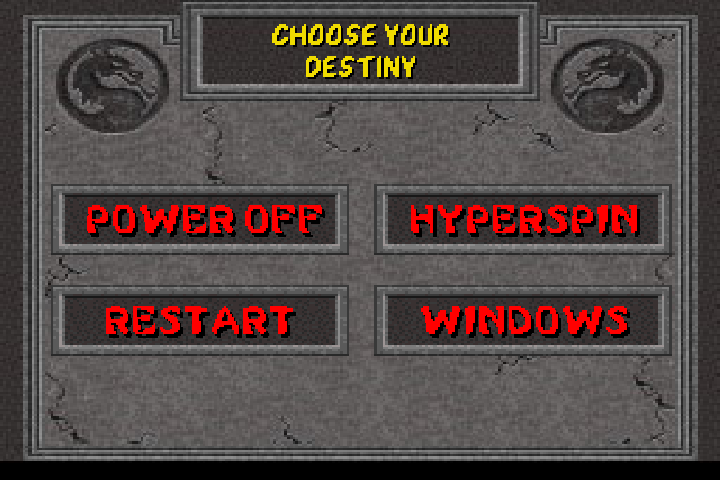
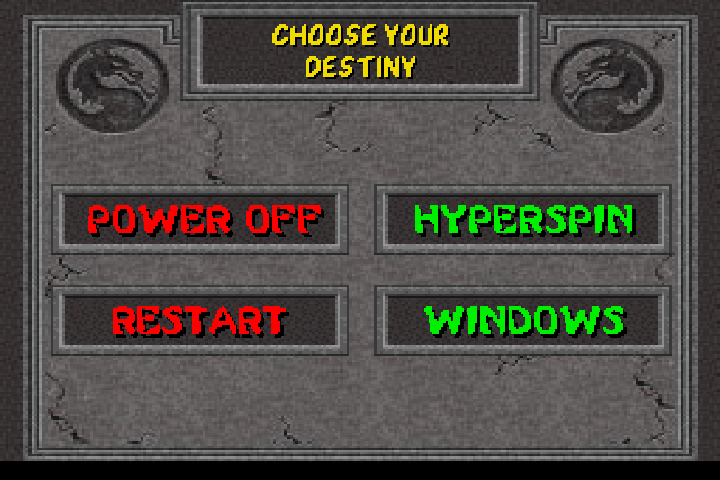
adicionada novas opções do menu de cancelar

diff --git a/build/menu.js b/build/menu.js
@@ -4,6 +4,7 @@ $(document).ready(function ($) {
   var selecionado = false;
   var shutdown = false;
   var stopCounter = false;
+  var cancelType = 1;
   var operacao = 0;
   var keys = {
     downP2: false,
@@ -276,11 +277,15 @@ $(document).ready(function ($) {
 
   function countDown() {
     var timeleft = 5;
+    $("#countdownCenter").text("5");
+    $("#countdownCenter").attr('data-text', $("#countdownCenter").text());
     var downloadTimer = setInterval(function(){
       if (stopCounter == true) {
         document.getElementById("progressBar").value = 5;
         document.getElementById("countdowntimer").textContent = 5;
+        document.getElementById("countdownCenter").textContent = 5;
         $("#countdowntimer").attr('data-text', 5);
+        $("#countdownCenter").attr('data-text', 5);
         clearInterval(downloadTimer);
         return;
       }
@@ -288,8 +293,13 @@ $(document).ready(function ($) {
  //   document.getElementById("progressBar").value = 5 - --timeleft;  //barra progressiva
     document.getElementById("progressBar").value  = --timeleft;
     document.getElementById("countdowntimer").textContent = timeleft;
+    document.getElementById("countdownCenter").textContent = timeleft;
     $("#countdowntimer").attr('data-text', timeleft);
+    $("#countdownCenter").attr('data-text', timeleft);
     if(timeleft <= 0) {
+      $("#pbText").text(operacao == 1 ? "SHUTTING DOWN..." : "RESTARTING OS...");
+      $("#pbText").attr('data-text', $("#pbText").text()); 
+      $("#countdowntimer").hide();    
       clearInterval(downloadTimer);
       const {
         exec
@@ -311,19 +321,30 @@ $(document).ready(function ($) {
       document.addEventListener('keydown', keyDown, false);
       if (menu == "default" ) {
         $(".bordaPiscante").css({ "display" : "none"});
-        $("#cancel").transition({ 'visibility': 'visible', easing: 'ease', duration: 500 });
+        
         
 
       }
       countDown();
-      $("#pbText").removeClass("pbTextDefault");
-      $("#pbText").addClass("pbText");
-      $("#pbText").text(operacao == 1 ? "SHUTDOWN IN " : "RESTART IN ");
-      $("#pbText").attr('data-text', $("#pbText").text());
+      if(cancelType == 2) {
+        $("#pbText").removeClass("pbTextDefault");
+        $("#pbText").addClass("pbText");
+        $("#pbText").text(operacao == 1 ? "SHUTDOWN IN " : "RESTART IN ");
+        $("#pbText").attr('data-text', $("#pbText").text());
+        $("#countdowntimer").show();
+        $("#countdown").show();
+        $("#progressContent").show();
+        $("#countdownCenter").hide();
+
+      } else {
+        $("#cancel").addClass(operacao == 1 ? "cancelPowerOff" : "cancelRestart" );
+        $("#countdownCenter").show();
+        animateCountDown();
+      }
+
+      $("#cancel").transition({ 'visibility': 'visible', easing: 'ease', duration: 500 });
       $('.bottomText').transition({ 'visibility': 'visible', easing: 'snap', duration: 1 });
-      $("#countdowntimer").show();
-      $("#countdown").show();
-      $("#progressContent").show();
+
 
   
   }
@@ -471,6 +492,104 @@ $(document).ready(function ($) {
 
 }
 
+function animateDivers() {
+  if (!selecionado) {
+    $('#element' + posicao).transition({
+      'border-color': '#007B00'  /* '#006700' */
+    }, 80).transition({
+      'border-color': '#24C72A'  /* '#00FF00' */
+    }, 80, animateDivers);
+  }
+
+}
+
+function animateCountDown() {
+    $('#countdownCenter').transition({
+      'color': '#FFFFFF', easing: 'snap', duration: 90  
+    }).transition({
+      'color': '#FF0000', easing: 'snap', duration: 90
+    }, animateCountDown);
+
+}
+
+function animateShaoKahn() {
+  
+  const death = new Howl({
+    src: ['./build/wav/death.wav']
+  });
+
+  const laugh1 = new Howl({
+    src: ['./build/wav/0laugh1.wav'],
+  });
+
+  const closefast = new Howl({
+    src: ['./build/wav/closefast.mp3'],
+  });
+
+  const iwin = new Howl({
+    src: ['./build/wav/1Iwin.wav'],
+    onend: function() {
+      laugh1.play();
+    }
+  });
+
+  const open = new Howl({
+    src: ['./build/wav/open.mp3'],
+    onend: function() {
+      iwin.play();
+    }
+  });
+
+
+
+  open.play();
+  $("#portalLeft").css({ "right" : "0", "transform" : "" });
+  $("#portalRight").css({ "left" : "0", "transform" : "" });
+  $(".bordaPiscante").css({ "display" : "none"});
+  $("#countdown").hide();
+  $("#progressContent").hide();
+  $('.bottomText').transition({ 'visibility': 'hidden', easing: 'snap', duration: 1 })
+  $('.blocoDireito').transition({ 'background-color': 'transparent', easing: 'snap', duration: 1 }); 
+  $('#portalLeft').transition({x: '-131px', duration: 650, easing: 'linear'})
+  .transition({x: '0px', duration: 650, easing: 'linear', delay: 2500})
+  .transition({y: '-2px', duration: 50})
+  .transition({y: '4px', duration: 100})
+  .transition({y: '-4px', duration: 100})
+  .transition({y: '0px', duration: 50});
+  $('#portalRight').transition({x: '115px', duration: 650, easing: 'linear'})
+  .transition({x: '0px', duration: 650, easing: 'linear', delay: 2500})
+  .transition({y: '-2px', duration: 50})
+  .transition({y: '4px', duration: 100})
+  .transition({y: '-4px', duration: 100})
+  .transition({y: '0px', duration: 50});;
+
+  $("#pbText").text("HAVE A NICE DAY");
+  $("#pbText").attr('data-text', $("#pbText").text());
+  $('.bottomText').transition({ 'visibility': 'visible', delay: 3800, easing: 'snap', duration: 1 })
+  .transition({y: '-2px', duration: 50})
+  .transition({y: '4px', duration: 100})
+  .transition({y: '-4px', duration: 100})
+  .transition({y: '0px', duration: 50});
+  $('.blocoDireito').transition({ 'background-color': '#393839', delay: 3755, easing: 'snap', duration: 1 });
+  delay(function () {
+    closefast.play();
+    delay(function () {
+      death.play();
+      
+      delay(function () {
+        $(".bordaPiscante").css({ "display" : "inline"});
+        checkSelection(); 
+        if (operacao == 1 || operacao == 2)  {
+          document.addEventListener('keydown', keyDown, false);
+        } 
+        
+      }, 300);
+    }, 800);
+  }, 3000);
+
+  
+}
+
   function cancelShutDown(e){
    if (e.which != 38 && e.which != 40 && e.which != 37 && e.which != 39 &&
     e.which != 82 && e.which != 70 && e.which != 68 && e.which != 71) {
@@ -492,6 +611,7 @@ $(document).ready(function ($) {
       $("#element" + posicao).removeClass("selecionado");
       $("#element" + posicao).addClass("bordaPiscante");
       $("progressBar").val(0);
+
 
       cancel.play();
       shutdown = false;
@@ -712,95 +832,7 @@ $(document).ready(function ($) {
    document.addEventListener("keydown", keyDown);
 
 
-  function animateDivers() {
-    if (!selecionado) {
-      $('#element' + posicao).transition({
-        'border-color': '#007B00'  /* '#006700' */
-      }, 80).transition({
-        'border-color': '#24C72A'  /* '#00FF00' */
-      }, 80, animateDivers);
-    }
 
-  }
-
-  function animateShaoKahn() {
-    
-    const death = new Howl({
-      src: ['./build/wav/death.wav']
-    });
-
-    const laugh1 = new Howl({
-      src: ['./build/wav/0laugh1.wav'],
-    });
-
-    const closefast = new Howl({
-      src: ['./build/wav/closefast.mp3'],
-    });
-
-    const iwin = new Howl({
-      src: ['./build/wav/1Iwin.wav'],
-      onend: function() {
-        laugh1.play();
-      }
-    });
-
-    const open = new Howl({
-      src: ['./build/wav/open.mp3'],
-      onend: function() {
-        iwin.play();
-      }
-    });
-
-
-
-    open.play();
-    $("#portalLeft").css({ "right" : "0", "transform" : "" });
-    $("#portalRight").css({ "left" : "0", "transform" : "" });
-    $(".bordaPiscante").css({ "display" : "none"});
-    $("#countdown").hide();
-    $("#progressContent").hide();
-    $('.bottomText').transition({ 'visibility': 'hidden', easing: 'snap', duration: 1 })
-    $('.blocoDireito').transition({ 'background-color': 'transparent', easing: 'snap', duration: 1 }); 
-    $('#portalLeft').transition({x: '-131px', duration: 650, easing: 'linear'})
-    .transition({x: '0px', duration: 650, easing: 'linear', delay: 2500})
-    .transition({y: '-2px', duration: 50})
-	  .transition({y: '4px', duration: 100})
-	  .transition({y: '-4px', duration: 100})
-	  .transition({y: '0px', duration: 50});
-    $('#portalRight').transition({x: '115px', duration: 650, easing: 'linear'})
-    .transition({x: '0px', duration: 650, easing: 'linear', delay: 2500})
-    .transition({y: '-2px', duration: 50})
-	  .transition({y: '4px', duration: 100})
-	  .transition({y: '-4px', duration: 100})
-    .transition({y: '0px', duration: 50});;
-
-    $("#pbText").text("HAVE A NICE DAY");
-    $("#pbText").attr('data-text', $("#pbText").text());
-    $('.bottomText').transition({ 'visibility': 'visible', delay: 3800, easing: 'snap', duration: 1 })
-    .transition({y: '-2px', duration: 50})
-	  .transition({y: '4px', duration: 100})
-	  .transition({y: '-4px', duration: 100})
-    .transition({y: '0px', duration: 50});
-    $('.blocoDireito').transition({ 'background-color': '#393839', delay: 3755, easing: 'snap', duration: 1 });
-    delay(function () {
-      closefast.play();
-      delay(function () {
-        death.play();
-        
-        delay(function () {
-          $(".bordaPiscante").css({ "display" : "inline"});
-          checkSelection(); 
-          if (operacao == 1 || operacao == 2)  {
-            document.addEventListener('keydown', keyDown, false);
-          } 
-          
-        }, 300);
-      }, 800);
-    }, 3000);
-
-
-    
-  }
 
 
   function startMenu() {

diff --git a/index.html b/index.html
@@ -19,6 +19,11 @@
           src: url('./build/mortalkombat1.ttf'); /*URL to font*/
         }
 
+        @font-face {
+          font-family: 'MK2'; /*a name to be used later*/
+          src: url('./build/mk2.ttf'); /*URL to font*/
+        }
+
 
         .bottomText {
             position: absolute;
@@ -38,6 +43,8 @@
           -webkit-text-fill-color: transparent;
           position:relative;
           text-align: center;
+          font-size: 28px !important;
+          font-family: 'MK2' !important;
         }
         .pbText:after {
           background: none;
@@ -299,12 +306,33 @@
           width: 720px;
           height: 480px;
           top: 0;
-          background-image: url("mk2cancel.png");
           background-repeat: no-repeat;
+          background-image: url("mk2cancel1.png");
           visibility: hidden;
           z-index: 2;
         }   
-        
+
+       .cancelPowerOff{
+          background-image: url("mk2cancel.png") !important;
+        }
+
+       .cancelRestart{
+          background-image: url("mk2cancel2.png") !important;
+        }
+
+       #countdownCenter{
+        position: absolute;
+        top: 320px;
+        left: 185px;
+        width: 30px;
+        height: 45px;
+        color: #FF0000;
+        text-align: center;
+        font-family: 'MK1';
+        font-size: 43px;
+        z-index: 2;
+        text-shadow: 3px 3px #000000;
+        }            
 
   </style>
 </head>
@@ -354,7 +382,7 @@
         </div>
         <div class="progressContent"
              id="progressContent"></div><!-- <button type="button" id="btnTeste" class="btn">Shao Kahn</button> -->
-        <div id="cancel"></div>     
+        <div id="cancel"><span data-text="5" id="countdownCenter">5</span></div>      
       </div>
     </div>
   </div>
